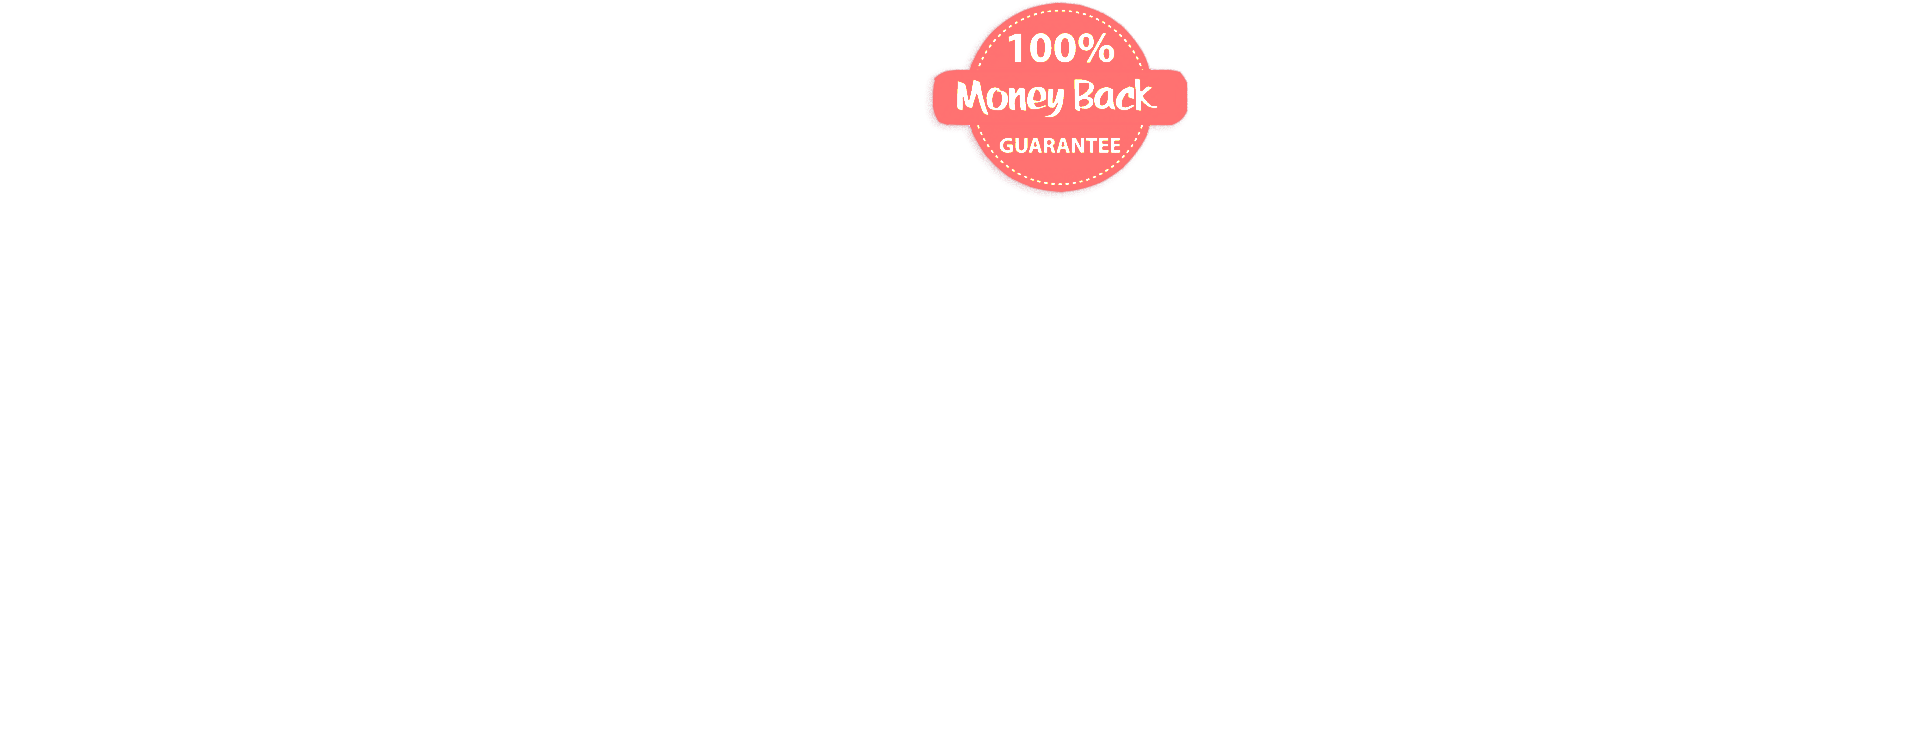
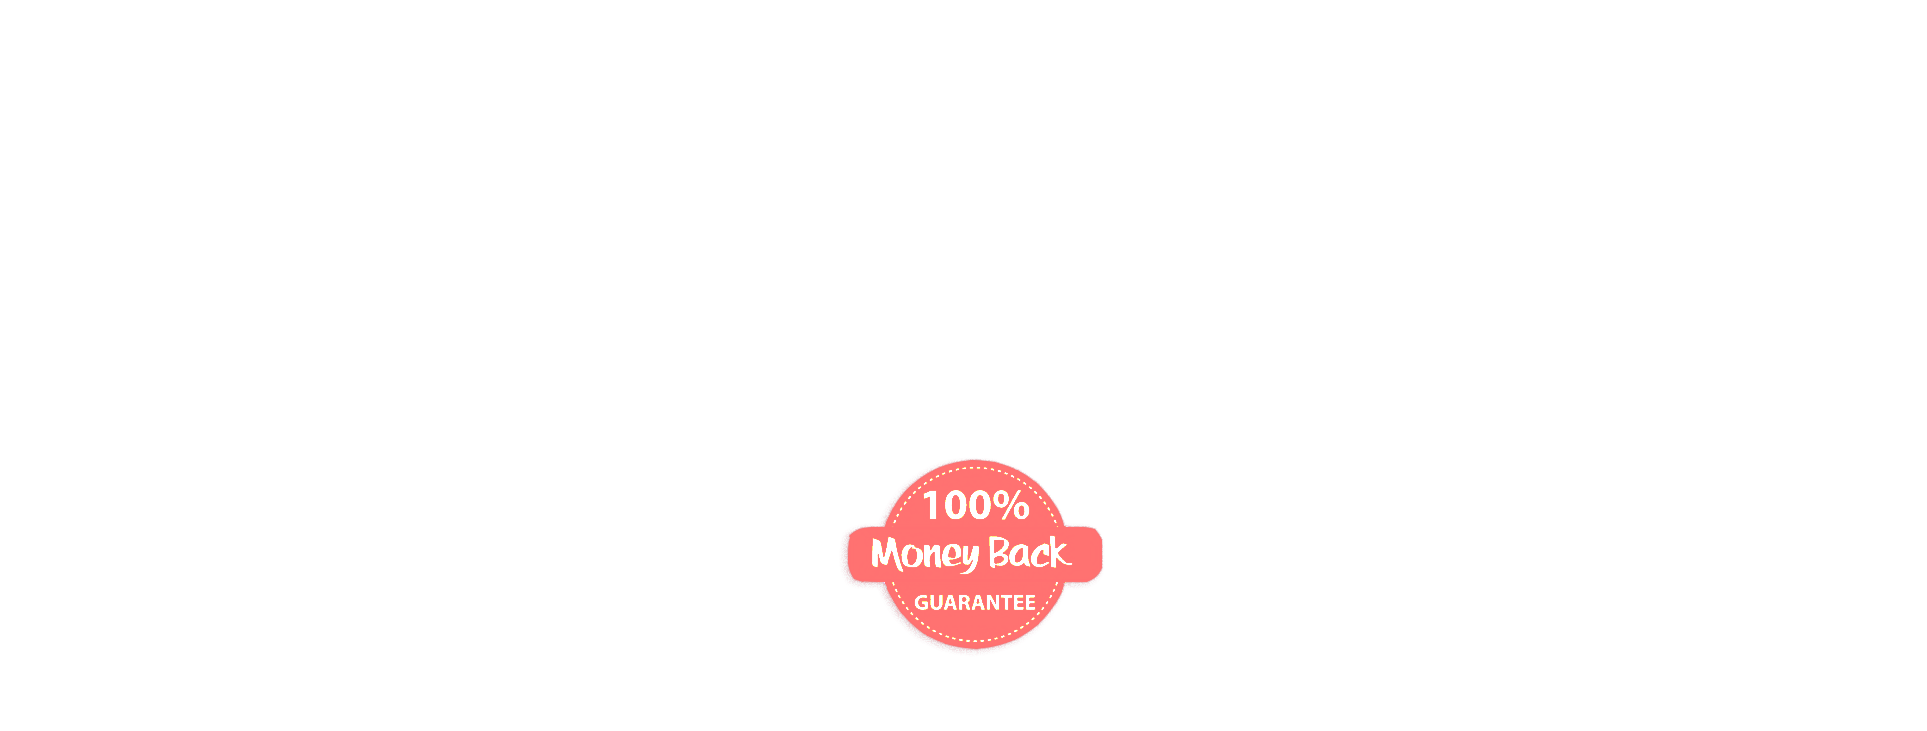
update
update

Changed region(s): [[0.4359, 0.632, 0.5916, 0.9029], [0.467, 0.0, 0.6227, 0.2709]]

diff --git a/program.html b/program.html
@@ -131,7 +131,7 @@
       </header>
 
       <!--Tentang Saya-->
-      <section class="section cta-section bg-gray-lighten" id="CekBugar" style="background-image:url('images/background-2.png')" alt="Survey kebugaran online - Evaluasi kebugaran pribadi - Tes kebugaran gratis - Analisis kebugaran - Kuesioner kesehatan dan kebugaran">
+      <section class="section cta-section bg-gray-lighten" id="Tentang" style="background-image:url('images/background-2.png')" alt="Survey kebugaran online - Evaluasi kebugaran pribadi - Tes kebugaran gratis - Analisis kebugaran - Kuesioner kesehatan dan kebugaran">
         <div class="container">
           <div class="row">
             <div class="col-xl-8 col-sm-10 col-12 col-md-8 wow fadeInLeft">
@@ -222,9 +222,9 @@
       </section>
       
       <!--Call to  Action-->
-      <section class="section cta-section bg-gray-lighten" id="CallToAksi" style="background-image:url('images/CallToAction3.png')"  alt="diet kelas online - weight loss challenge - ingin langsing - fat loss challenge - turun berat badan">
+      <section class="section cta-section bg-gray-lighten" id="CallToAksi" style="background-image:url('images/CallToAction1.png')"  alt="diet kelas online - weight loss challenge - ingin langsing - fat loss challenge - turun berat badan">
         <div class="container">
-          <!--
+          
             <div class="row">
               <div class="col-xl-8 col-sm-10 col-12 col-md-8 wow fadeInRight"></div>
                 <div class="cta-wrap text-center">
@@ -239,7 +239,7 @@
                      
               <div class="row">
                 <div class="col-xl-8 col-sm-10 col-12 col-md-8">
-            -->
+            
                   <a class="button-primary button-md justify-content-center" href="https://amihaji.github.io/beratideal/formDaftar.html" target="_blank">
                     <i class="bi bi-check-circle-fill"></i> Daftar Sekarang!
                   </a>
